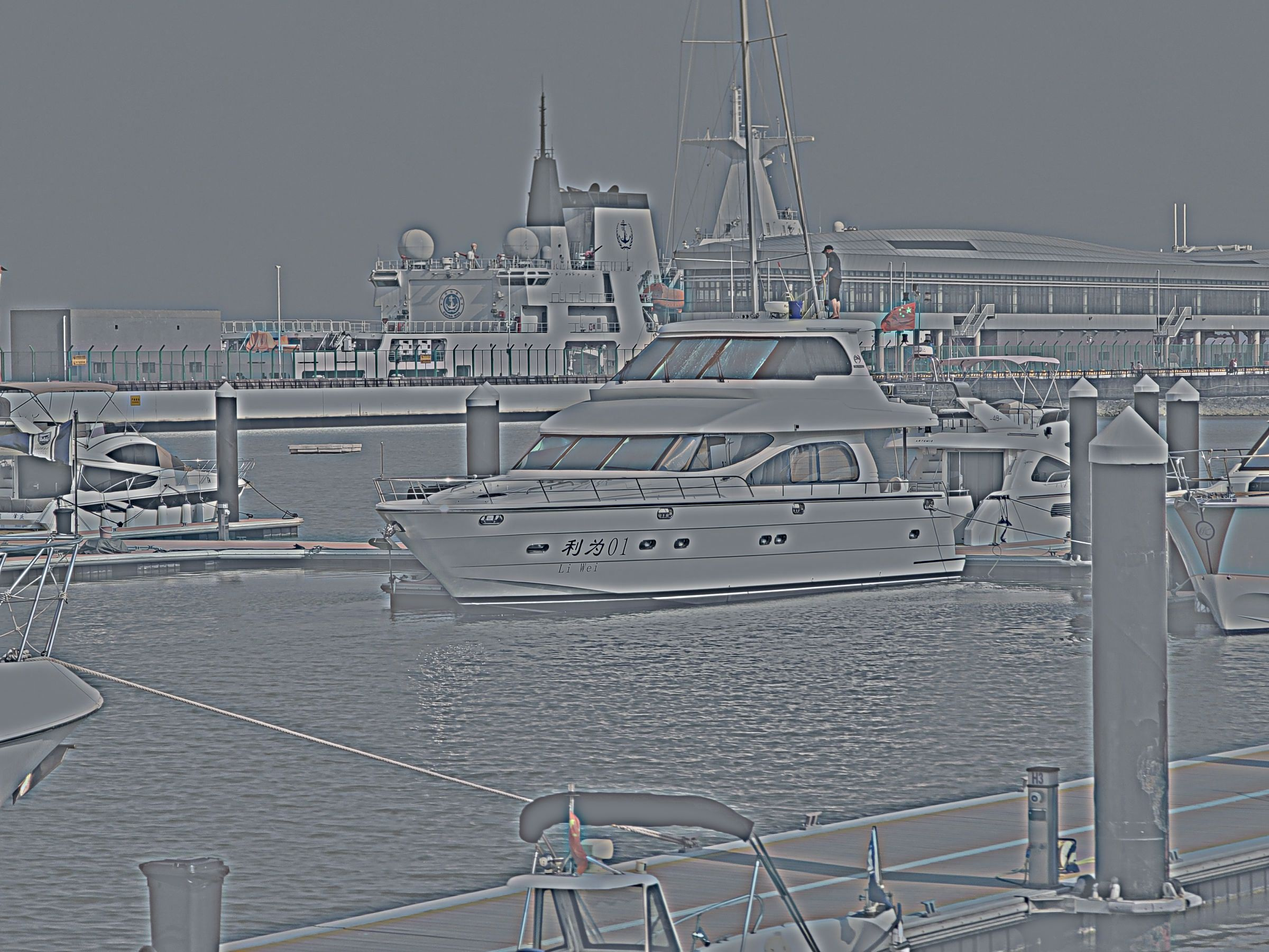
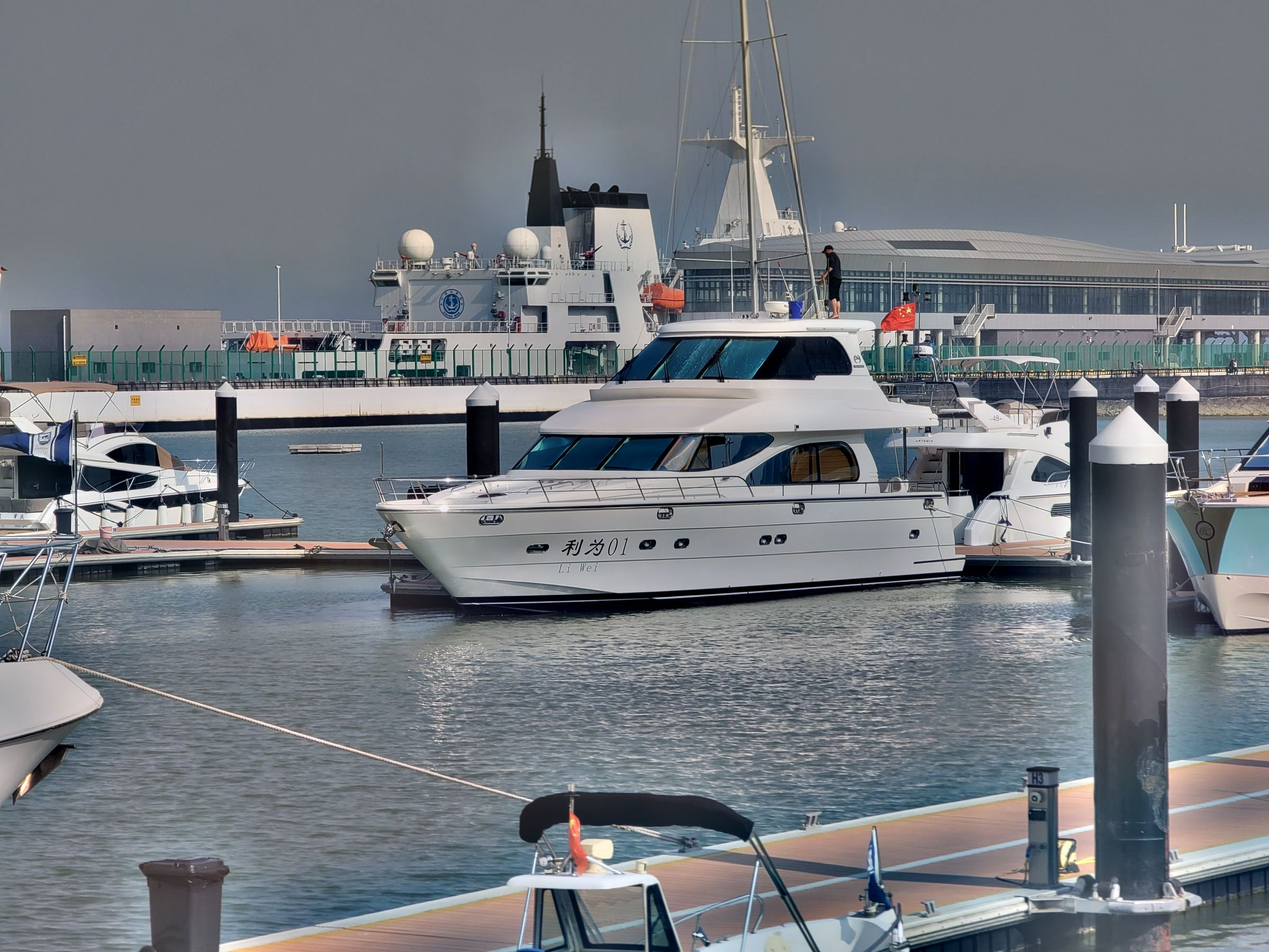
fixed some bugs

diff --git a/PoissonSolverSurvey/ImageHelper.cpp b/PoissonSolverSurvey/ImageHelper.cpp
@@ -231,6 +231,7 @@ FloatImage FloatImage::JacobiCpu(int numIters)
 
 #include "cuda_runtime.h"
 cudaError_t jacobiWithCuda(int numIters, int width, int height, int channels, const float* b, float* result);
+cudaError_t conjugateGradientWithCuda(int numIters, int width, int height, int channels, const float* hostb, float* hostresult);
 
 FloatImage FloatImage::JacobiCuda(int numIters)
 {
@@ -241,6 +242,6 @@ FloatImage FloatImage::JacobiCuda(int numIters)
 FloatImage FloatImage::ConjudateGradientCuda(int numIters)
 {
 	FloatImage temp1(m_width, m_height, m_channels);
-	jacobiWithCuda(numIters, m_width, m_height, m_channels, m_imageData, temp1.m_imageData);
+	conjugateGradientWithCuda(numIters, m_width, m_height, m_channels, m_imageData, temp1.m_imageData);
 	return temp1;
 }

diff --git a/PoissonSolverSurvey/PoissonSolverSurvey.cpp b/PoissonSolverSurvey/PoissonSolverSurvey.cpp
@@ -34,7 +34,7 @@ int main()
 
 	stbi_write_jpg(imageOut, width, height, n, poissonData, 80);
 
-	auto solved = dst.ConjudateGradientCuda(200);
+	auto solved = dst.ConjudateGradientCuda(2000);
 
 	auto solvedData = solved.ToBytes(1, &avarage, false);
 
